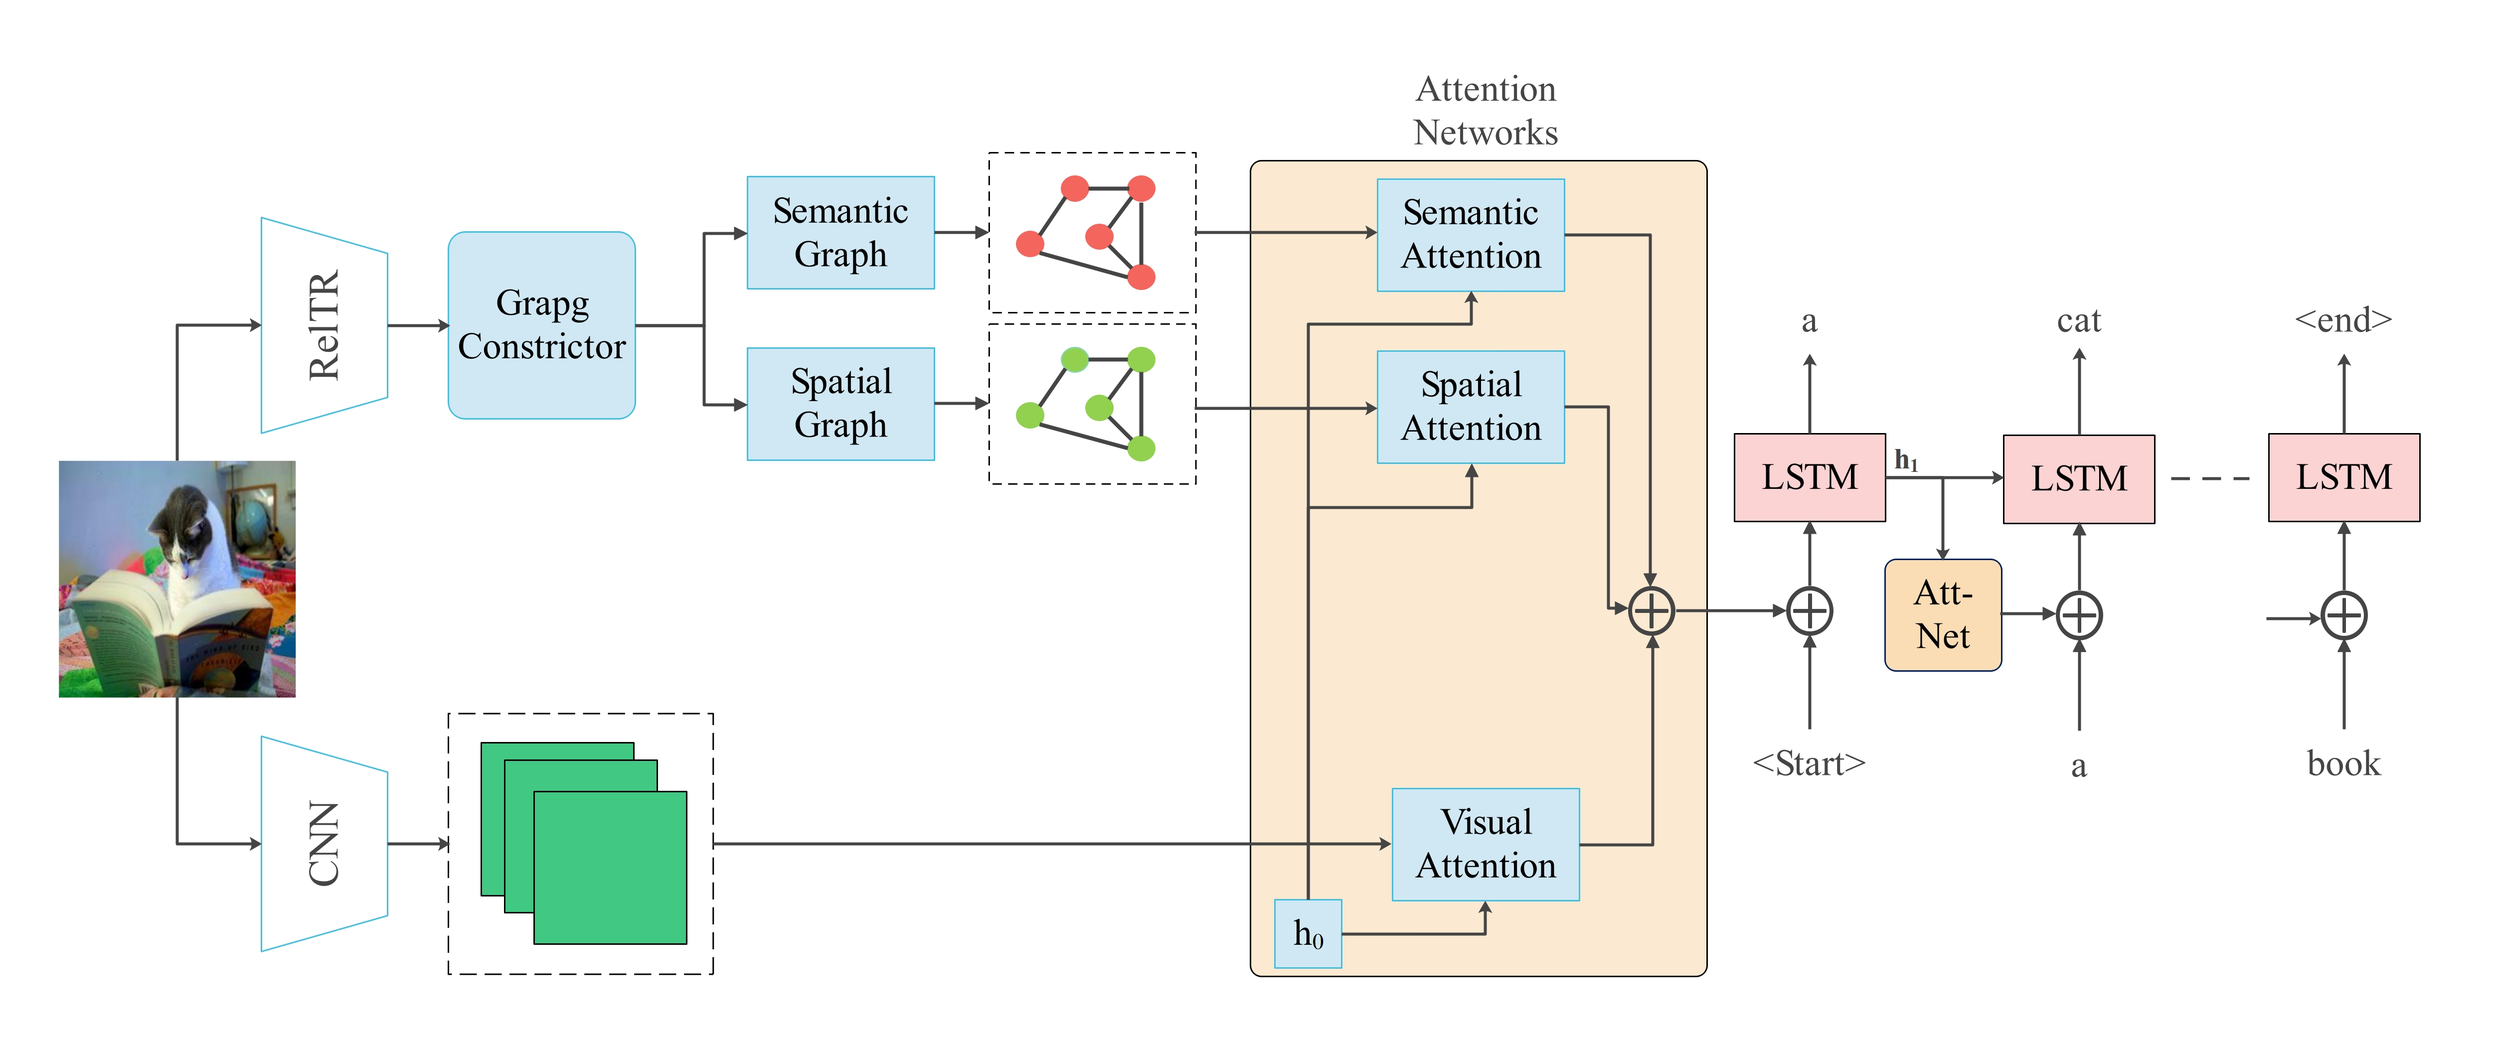
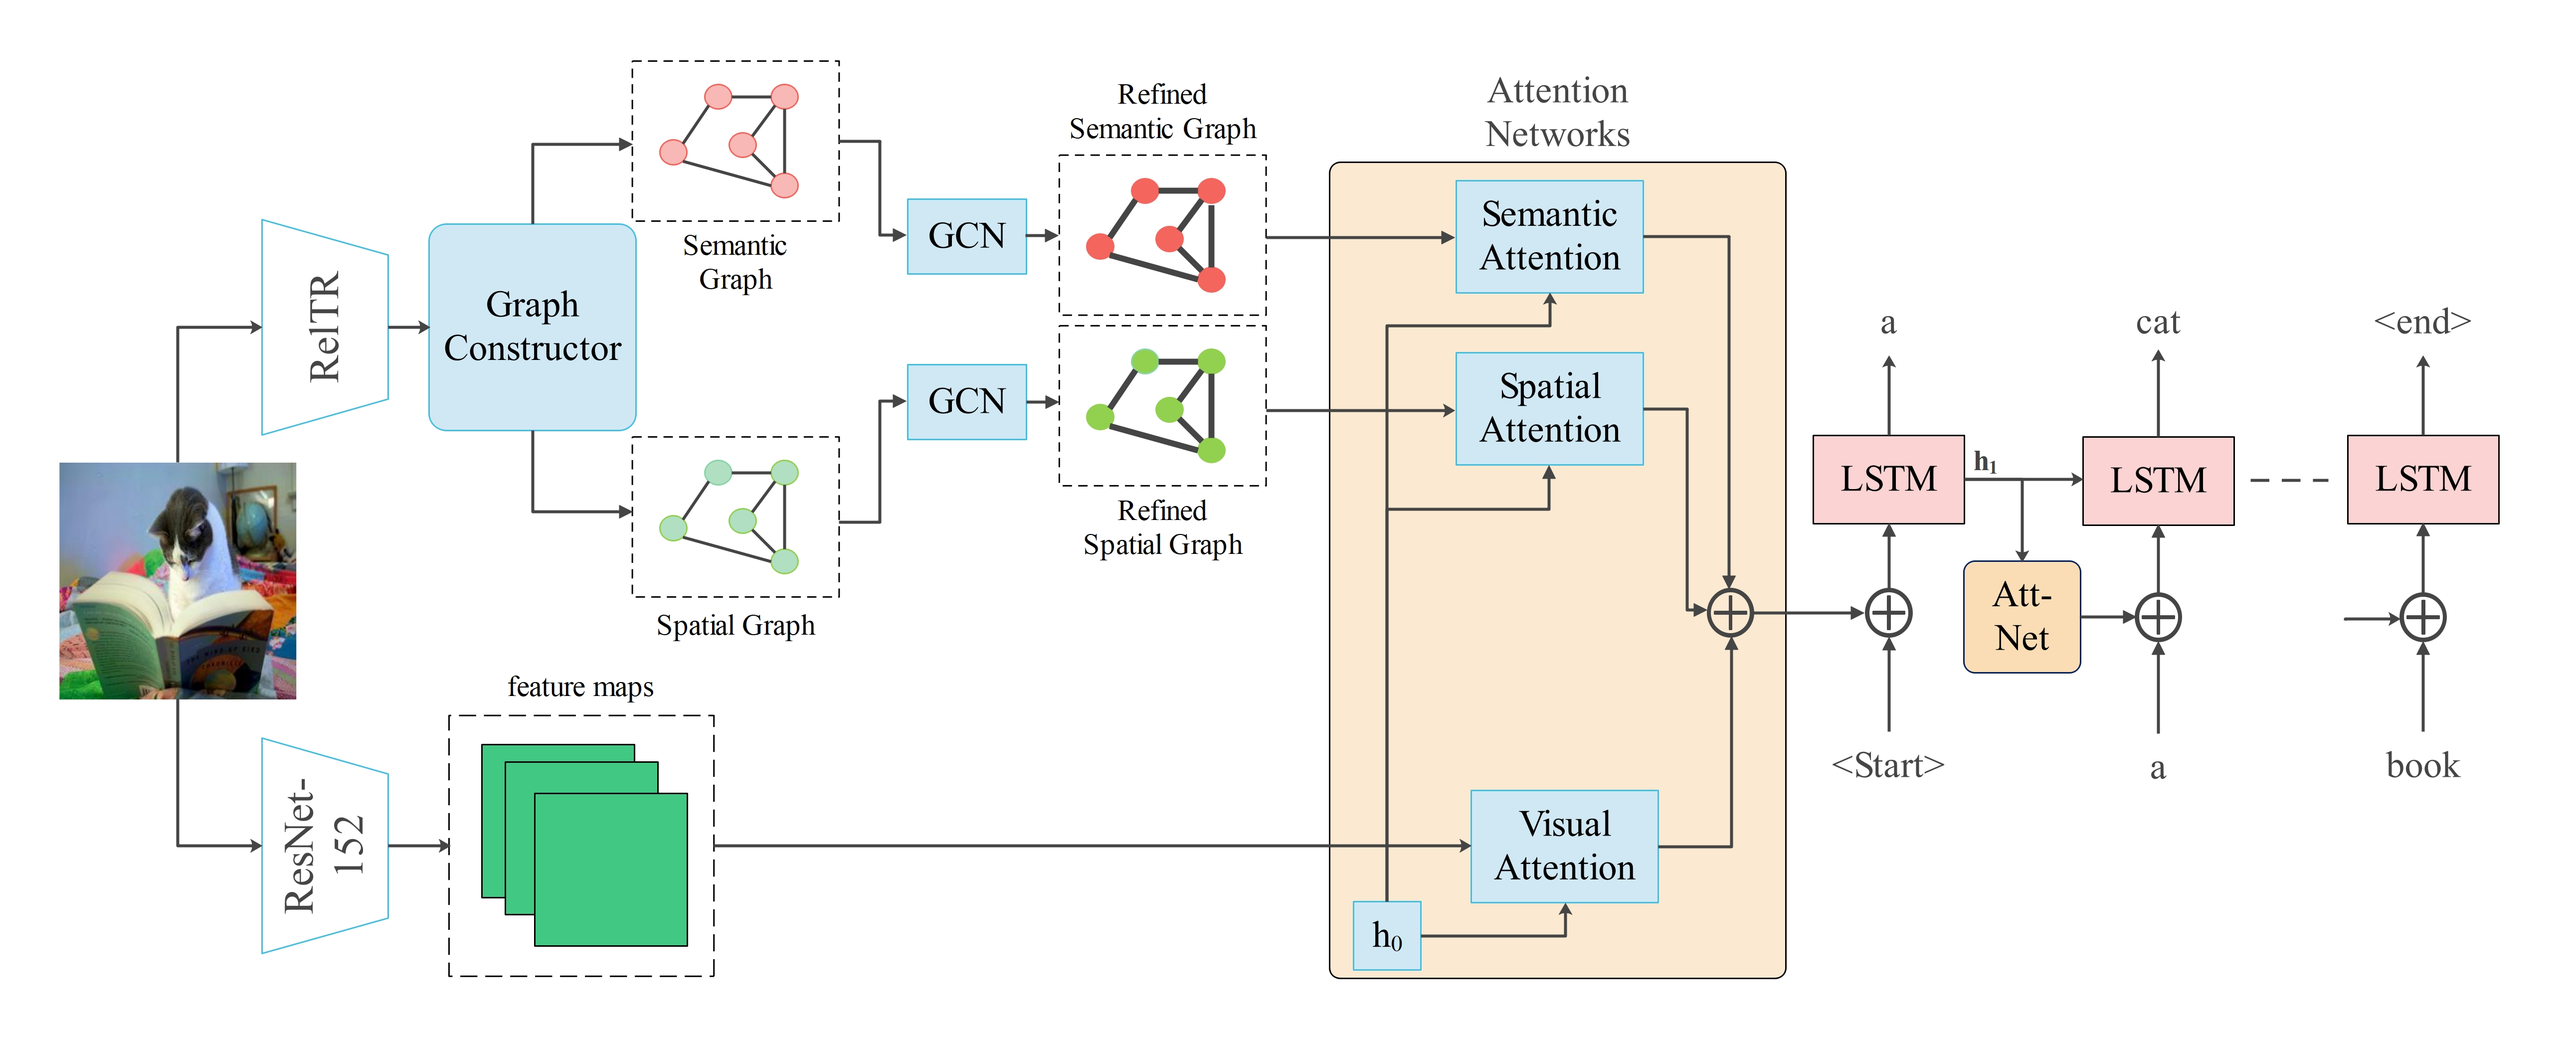
add architecture

diff --git a/sample.py b/sample.py
@@ -8,7 +8,7 @@ from torchvision import transforms
 from PIL import Image
 from utils.build_vocab import Vocabulary, GraphVocabulary # import this, Necessary for load vocab.pkl file
 # from utils.scene_graph_extractor import getSGData
-from models.models import EncoderDecoder
+from models.model2 import EncoderDecoder
 from RelTR.scenegraph import SceneGraph
 from utils.tools import extractGeometricFeaturesForGCN, extractGeometricFeatureAsEdgeAttr
 from utils.scene_graph_extractor import extractSceneGraphData
@@ -73,7 +73,7 @@ def main(args):
     images = os.listdir('images')
     for image in images:
         image = os.path.join('images/', image)
-        # img2 = cv2.imread(image)
+        img2 = cv2.imread(image)
         img = load_image(image, transform)
         image_tensor = img.to(device)
         # Generate an caption from the image
@@ -81,8 +81,8 @@ def main(args):
         if sg:
             print(sg)
             SG_data = extractSceneGraphData((sg[image],), vocab_graph)
-            # batched_graph, feat = extractGeometricFeaturesForGCN(SG_data.bboxes, SG_data.edge_indexes)
-            # visualizeGeometricFeatures(img2, feat,SG_data.edge_indexes)
+            batched_graph, feat = extractGeometricFeaturesForGCN(SG_data.bboxes, SG_data.edge_indexes)
+            visualizeGeometricFeatures(img2, feat,SG_data.edge_indexes)
             # feature = model(SG_data, image_tensor,None, None, training=False)
             # sampled_ids = model.decoder_lstm.sample(feature)
             f1, f2, f3 = model(SG_data, image_tensor,None, None, training=False)

diff --git a/train.py b/train.py
@@ -9,7 +9,7 @@ from torch.nn.utils.rnn import pack_padded_sequence, pad_sequence, pad_packed_se
 from utils.dataloader import getData
 from utils.build_vocab import Vocabulary, GraphVocabulary # import this, Necessary for load vocab.pkl file
 from utils.scene_graph_extractor import extractSceneGraphData
-from models.models import EncoderDecoder
+from models.model2 import EncoderDecoder
 from utils.tools import save_model
 from nltk.translate.bleu_score import corpus_bleu
 

diff --git a/eval_cap2.py b/eval_cap2.py
@@ -6,7 +6,7 @@ import torch
 from torchvision import transforms
 from utils.dataloader import getData
 from utils.build_vocab import Vocabulary, GraphVocabulary # import this, Necessary for load vocab.pkl file
-from models.models import EncoderDecoder
+from models.model2 import EncoderDecoder
 import torch.nn.functional as F
 from utils.scene_graph_extractor import extractSceneGraphData
 import json

diff --git a/eval_cap.py b/eval_cap.py
@@ -6,7 +6,7 @@ import torch
 from torchvision import transforms
 from utils.dataloader import getData
 from utils.build_vocab import Vocabulary, GraphVocabulary # import this, Necessary for load vocab.pkl file
-from models.models import EncoderDecoder
+from models.model2 import EncoderDecoder
 import torch.nn.functional as F
 from utils.scene_graph_extractor import extractSceneGraphData
 
